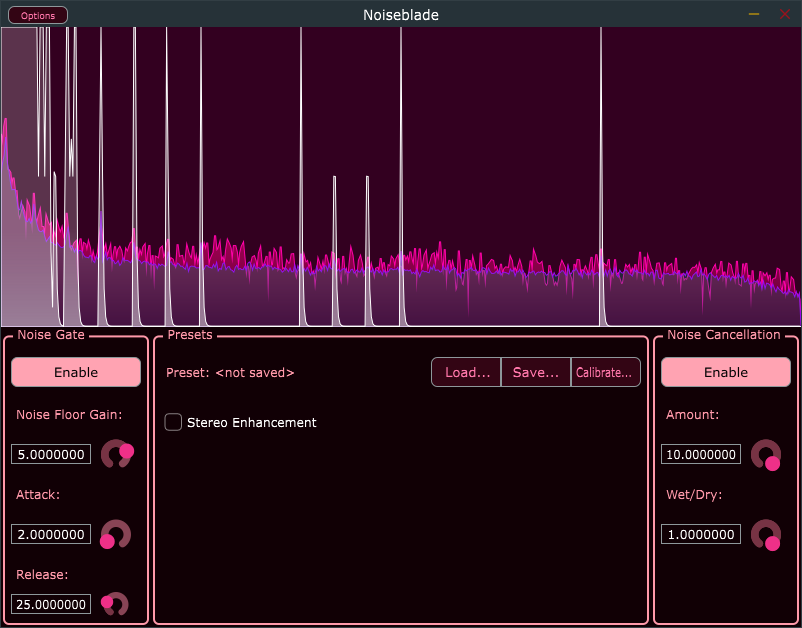
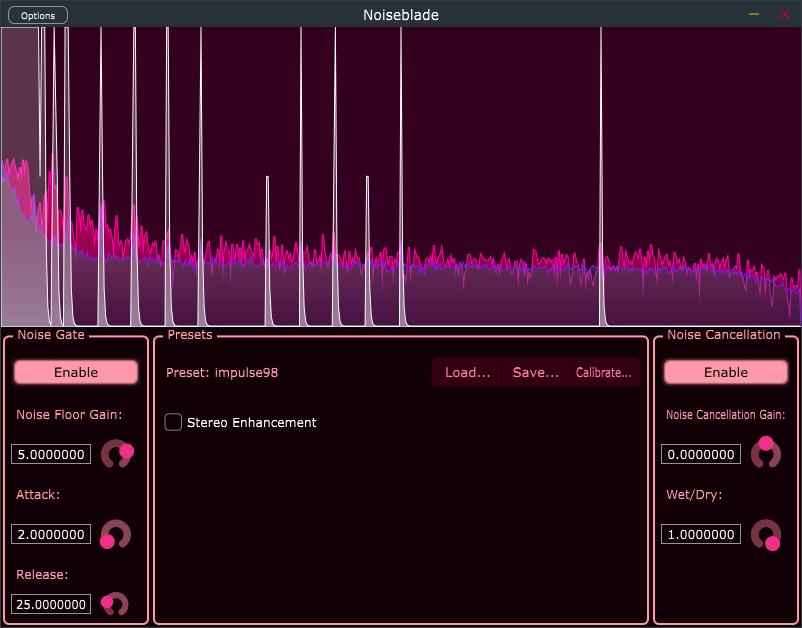
Update Look and Feel

diff --git a/Source/AMPLookNFeel.h b/Source/AMPLookNFeel.h
@@ -1,0 +1,111 @@
+/********************************************************************
+
+Noiseblade - Noise Cancellation tool
+Copyright (C) 2021  by Trollaattori
+
+This program is free software: you can redistribute it and/or modify
+it under the terms of the GNU General Public License as published by
+the Free Software Foundation, either version 3 of the License, or
+(at your option) any later version.
+
+This program is distributed in the hope that it will be useful,
+but WITHOUT ANY WARRANTY; without even the implied warranty of
+MERCHANTABILITY or FITNESS FOR A PARTICULAR PURPOSE.  See the
+GNU General Public License for more details.
+
+You should have received a copy of the GNU General Public License
+along with this program.  If not, see <http://www.gnu.org/licenses/>.
+
+
+-- This Visiual Theme of the Plugin. --
+
+********************************************************************/
+
+#ifndef AMPLOOKNFEEL_H
+#define AMPLOOKNFEEL_H
+
+#include <JuceHeader.h>
+
+class AmpLookAndFeel  : public juce::LookAndFeel_V4 {
+public:
+    AmpLookAndFeel() {
+        setColour (juce::ResizableWindow::backgroundColourId, juce::Colour(0x11,0x00,0x05));
+        setColour (juce::TextButton::buttonColourId , juce::Colour(0x33,0x00,0x11));
+        setColour (juce::TextButton::buttonOnColourId , juce::Colour(0xff,0x99,0xaa));
+        setColour (juce::TextButton::textColourOffId , juce::Colour(0xff,0x77,0xaa));
+        setColour (juce::TextButton::textColourOnId , juce::Colours::black);
+        setColour (juce::Label::textColourId, juce::Colour(0xff,0x99,0xaa));
+
+        setColour (juce::Slider::thumbColourId, juce::Colour(0xee,0x30,0x88));
+
+        setColour (juce::Slider::rotarySliderFillColourId, juce::Colour(0x77,0x33,0x44));
+        setColour (juce::Slider::rotarySliderOutlineColourId, juce::Colour(0x88,0x44,0x55));
+
+        setColour (juce::GroupComponent::textColourId, juce::Colour(0xff,0x99,0xaa));
+        setColour (juce::GroupComponent::outlineColourId, juce::Colour(0xff,0x99,0xaa));
+    }
+
+private:
+
+//Copied From LookAndFeel_V4 - removed focus alpha and borders
+virtual void drawButtonBackground (juce::Graphics& g,
+                                           juce::Button& button,
+                                           const juce::Colour& backgroundColour,
+                                           bool shouldDrawButtonAsHighlighted,
+                                           bool shouldDrawButtonAsDown) override
+{
+    auto cornerSize = 6.0f;
+    auto bounds = button.getLocalBounds().toFloat().reduced (0.5f, 0.5f);
+
+    auto baseColour = backgroundColour.withMultipliedAlpha (button.isEnabled() ? 1.0f : 0.5f);
+
+    if (shouldDrawButtonAsDown || shouldDrawButtonAsHighlighted)
+        baseColour = baseColour.contrasting (shouldDrawButtonAsDown ? 0.2f : 0.05f);
+
+    g.setColour (baseColour);
+
+    auto flatOnLeft   = button.isConnectedOnLeft();
+    auto flatOnRight  = button.isConnectedOnRight();
+    auto flatOnTop    = button.isConnectedOnTop();
+    auto flatOnBottom = button.isConnectedOnBottom();
+
+    if (flatOnLeft || flatOnRight || flatOnTop || flatOnBottom)
+    {
+        juce::Path path;
+        path.addRoundedRectangle (bounds.getX(), bounds.getY(),
+                                  bounds.getWidth(), bounds.getHeight(),
+                                  cornerSize, cornerSize,
+                                  ! (flatOnLeft  || flatOnTop),
+                                  ! (flatOnRight || flatOnTop),
+                                  ! (flatOnLeft  || flatOnBottom),
+                                  ! (flatOnRight || flatOnBottom));
+
+        g.fillPath (path);
+
+        //g.setColour (button.findColour (juce::ComboBox::outlineColourId));
+        //g.strokePath (path, juce::PathStrokeType (1.0f));
+    }
+    else
+    {
+        if(button.isEnabled()) {
+            g.setColour (baseColour.withMultipliedAlpha(0.7));
+            g.fillRoundedRectangle (bounds.reduced(3.0), cornerSize);
+            g.setColour (baseColour.withMultipliedAlpha(0.4));
+            g.fillRoundedRectangle (bounds.reduced(2.0), cornerSize);
+
+            g.setColour (baseColour.withMultipliedAlpha(0.1));
+            g.fillRoundedRectangle (bounds, cornerSize);
+        }
+        g.setColour (baseColour);
+        g.fillRoundedRectangle (bounds.reduced(4.0), cornerSize);
+
+        //g.setColour (button.findColour (juce::ComboBox::outlineColourId));
+        //g.drawRoundedRectangle (bounds, cornerSize, 1.0f);
+    }
+}
+
+
+
+};
+
+#endif // AMPLOOKNFEEL_H

diff --git a/Source/PluginEditor.cpp b/Source/PluginEditor.cpp
@@ -24,6 +24,7 @@ along with this program.  If not, see <http://www.gnu.org/licenses/>.
 #include "PluginProcessor.h"
 #include "PluginEditor.h"
 
+#include "AMPLookNFeel.h"
 //==============================================================================
 AMPAudioProcessorEditor::AMPAudioProcessorEditor (AMPAudioProcessor& p)
     : AudioProcessorEditor (&p), audioProcessor (p)
@@ -36,24 +37,7 @@ AMPAudioProcessorEditor::AMPAudioProcessorEditor (AMPAudioProcessor& p)
     audioProcessor.noiseGate.setRelease(audioProcessor.noiseFloorReleaseSliderValue);
     audioProcessor.noiseGate.setRatio(3);
 
-
-
-            getLookAndFeel().setColour (juce::ResizableWindow::backgroundColourId, juce::Colour(0x11,0x00,0x05));
-            getLookAndFeel().setColour (juce::TextButton::buttonColourId , juce::Colour(0x33,0x00,0x11));
-            getLookAndFeel().setColour (juce::TextButton::buttonOnColourId , juce::Colour(0xff,0x99,0xaa));
-            getLookAndFeel().setColour (juce::TextButton::textColourOffId , juce::Colour(0xff,0x77,0xaa));
-            getLookAndFeel().setColour (juce::TextButton::textColourOnId , juce::Colours::black);
-            getLookAndFeel().setColour (juce::Label::textColourId, juce::Colour(0xff,0x99,0xaa));
-
-            getLookAndFeel().setColour (juce::Slider::thumbColourId, juce::Colour(0xee,0x30,0x88));
-
-            getLookAndFeel().setColour (juce::Slider::rotarySliderFillColourId, juce::Colour(0x77,0x33,0x44));
-            getLookAndFeel().setColour (juce::Slider::rotarySliderOutlineColourId, juce::Colour(0x88,0x44,0x55));
-
-            getLookAndFeel().setColour (juce::GroupComponent::outlineColourId, juce::Colour(0xff,0x99,0xaa));
-            getLookAndFeel().setColour (juce::GroupComponent::textColourId, juce::Colour(0xff,0x99,0xaa));
-
-
+    setLookAndFeel(new AmpLookAndFeel);
 
     addAndMakeVisible (audioProcessor.liveAudioScroller.get());
     addAndMakeVisible (noiseGateGroup);
